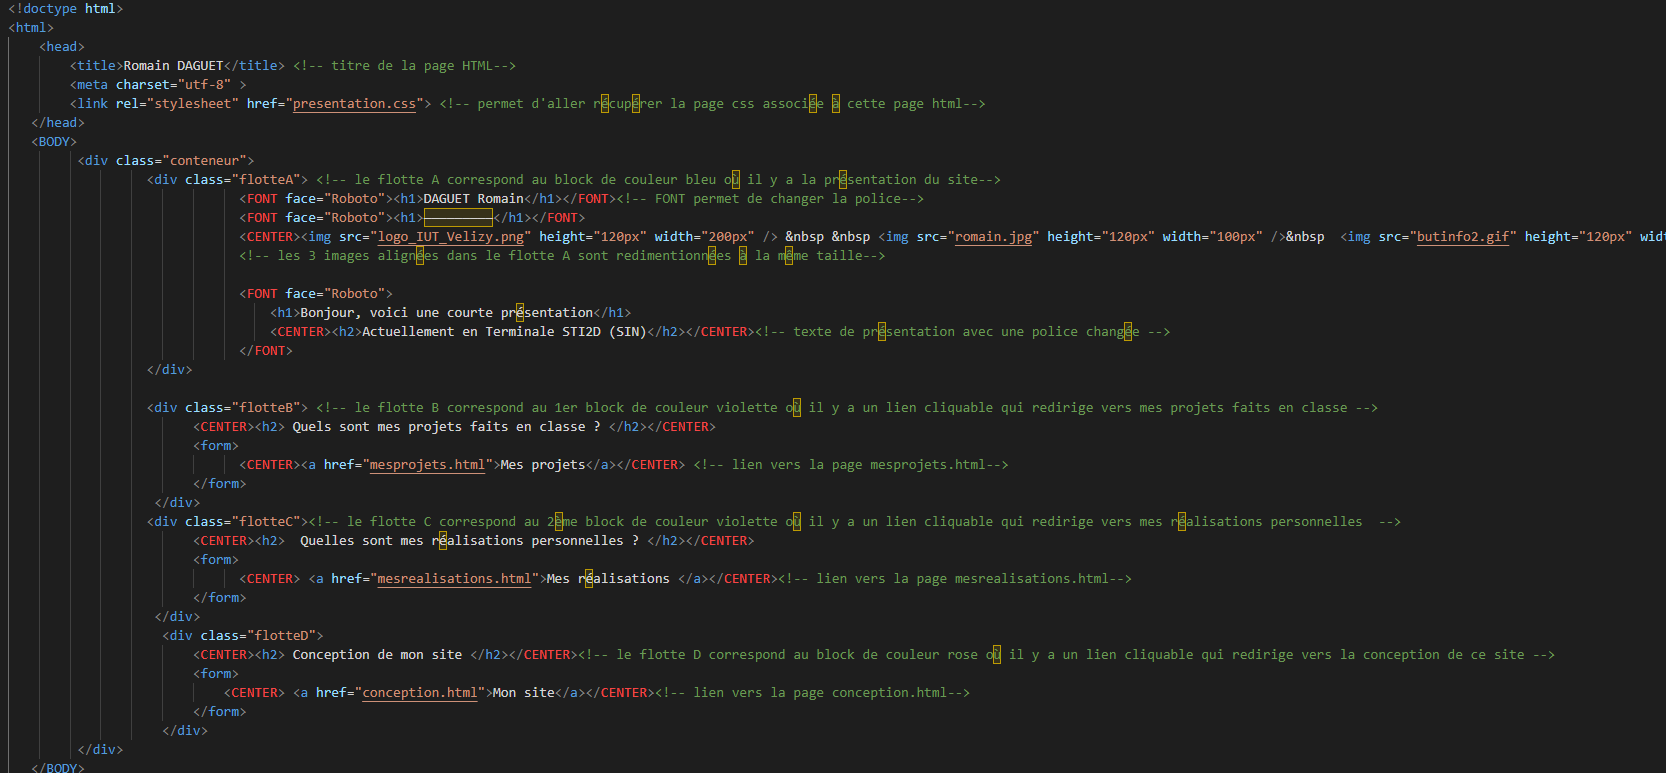
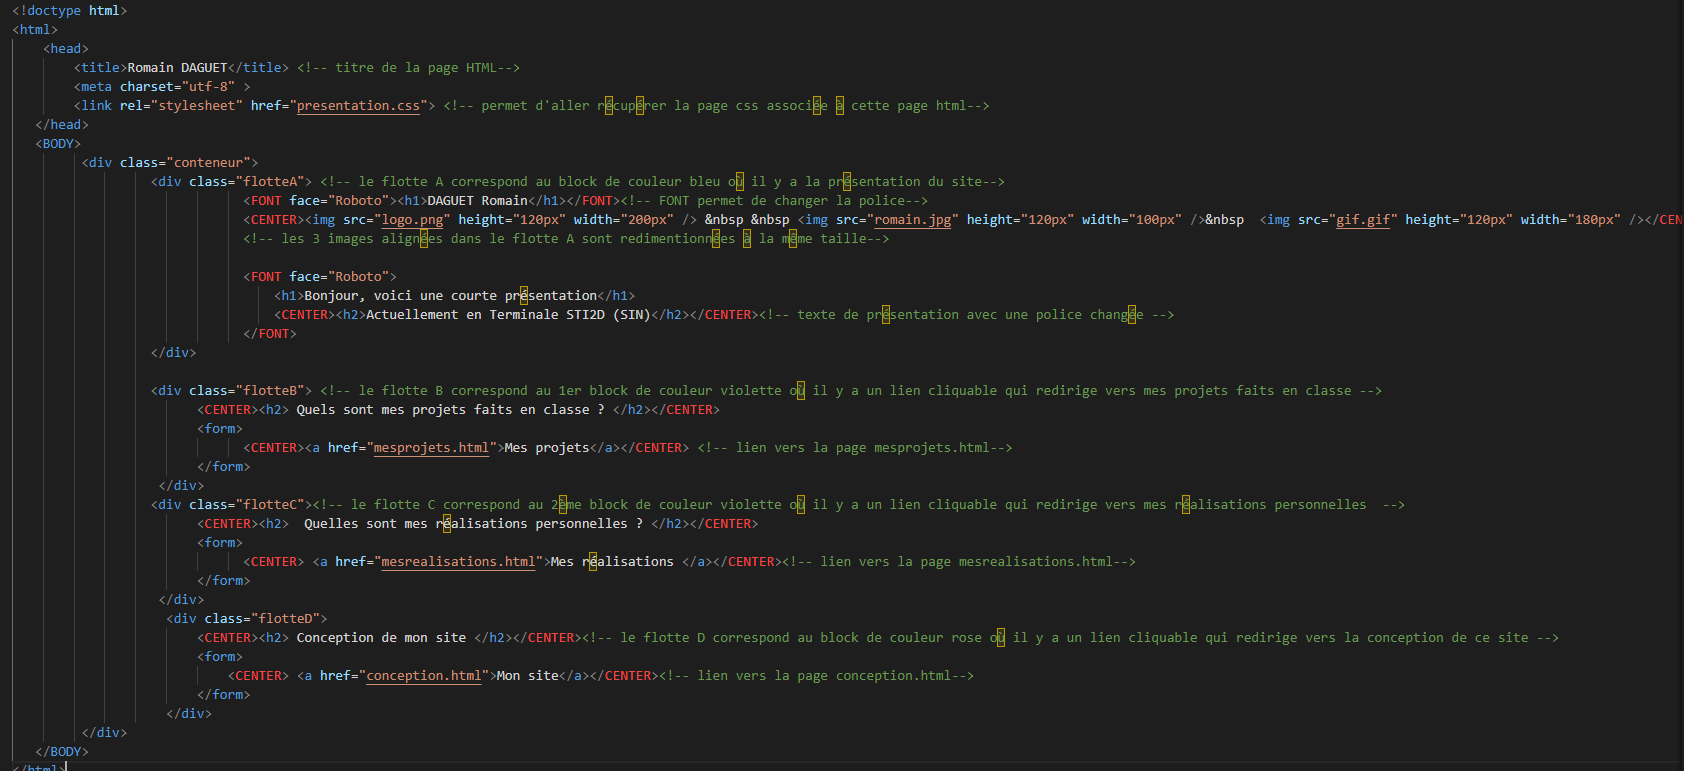
Add files via upload

diff --git a/pres-51VEL.html b/pres-51VEL.html
@@ -10,8 +10,7 @@
          <div class="conteneur">
                   <div class="flotteA"> <!-- le flotte A correspond au block de couleur bleu où il y a la présentation du site-->
                               <FONT face="Roboto"><h1>DAGUET Romain</h1></FONT><!-- FONT permet de changer la police-->
-							  <FONT face="Roboto"><h1>—————————</h1></FONT>
-							  <CENTER><img src="logo_IUT_Velizy.png" height="120px" width="200px" /> &nbsp &nbsp <img src="romain.jpg" height="120px" width="100px" />&nbsp  <img src="butinfo2.gif" height="120px" width="180px" /></CENTER>
+							  <CENTER><img src="logo_IUT_Velizy.png" height="120px" width="200px" /> &nbsp &nbsp <img src="romain.jpg" height="120px" width="100px" />&nbsp  <img src="gif.gif" height="120px" width="180px" /></CENTER>
 							  <!-- les 3 images alignées dans le flotte A sont redimentionnées à la même taille-->
 
 							  <FONT face="Roboto">

diff --git a/mesrealisations.html b/mesrealisations.html
@@ -25,7 +25,7 @@
 									</video><br><br>
 								
 									<h2><u>L'impression 3D</u></h2> <br>
-									Je télécharge un modèle sur internet. Je le visualise et le recadre grâce au logiciel <b>Ultimeker Cura</b>. Je génère un fichier que je sauvgarde sur une clé USB. Enfin, j'insère la clé USB dans l'imprimante 3D pour démarrer l'impression.
+									Je télécharge un modèle sur internet. Je le visualise et le recadre grâce au logiciel <b>Ultimeker Cura</b>. Je génère un fichier que je sauvegarde sur une clé USB. Enfin, j'insère la clé USB dans l'imprimante 3D pour démarrer l'impression.
 									<br><br>
 									<img src="photoobjet3dface.jpg" height="300px" width="300px" />
 									<img src="photoobject3dprofile.jpg" height="300px" width="300px" />

diff --git a/presentation.css b/presentation.css
@@ -1,11 +1,11 @@
 .conteneur {      
         width:800px;/* taille en longueur du block */
-        height:655px ;/* taille en largeur du block */
+        height:606px ;/* taille en largeur du block */
         border:1px solid black; /* taille des bordures du block */
 		   } 
 .flotteA {
         float:relative;
-		height:400px;/* taille en largeur du block */
+		height:350px;/* taille en largeur du block */
         width:798px;/* taille en longueur du block */
 		margin-top:0px;/* précise l'espace entre la bordure haute et l'élément HTML */
 		margin-left:0px;/* précise l'espace entre la bordure gauche et l'élément HTML */
